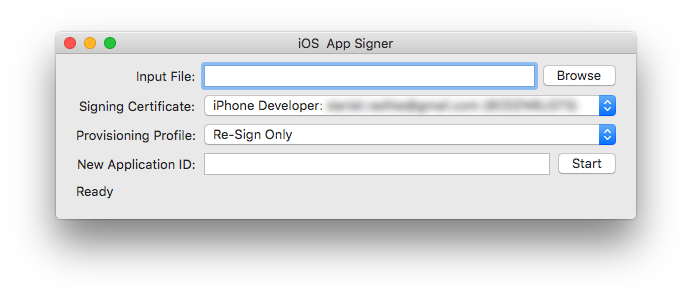
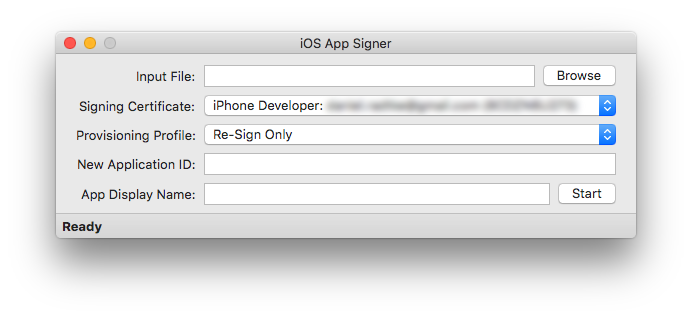
1.0b3

Changed region(s): [[0.0607, 0.0903, 0.9104, 0.7525]]

diff --git a/AppSigner/ViewController.swift b/AppSigner/ViewController.swift
@@ -19,6 +19,7 @@ class ViewController: NSViewController, NSURLSessionDataDelegate, NSURLSessionDe
     @IBOutlet var StartButton: NSButton!
     @IBOutlet var NewApplicationIDTextField: NSTextField!
     @IBOutlet var downloadProgress: NSProgressIndicator!
+    @IBOutlet var appDisplayName: NSTextFieldCell!
     
     //MARK: Variables
     var provisioningProfiles:[ProvisioningProfile] = []
@@ -233,6 +234,7 @@ class ViewController: NSViewController, NSURLSessionDataDelegate, NSURLSessionDe
         var provisioningFile = self.profileFilename
         let signingCertificate = self.CodesigningCertsPopup.selectedItem!.title
         let newApplicationID = self.NewApplicationIDTextField.stringValue.stringByTrimmingCharactersInSet(NSCharacterSet.whitespaceAndNewlineCharacterSet())
+        let newDisplayName = self.appDisplayName.stringValue.stringByTrimmingCharactersInSet(NSCharacterSet.whitespaceAndNewlineCharacterSet())
         
         //MARK: Create working temp folder
         let tempTask = NSTask().execute(mktempPath, workingDirectory: nil, arguments: ["-d"])
@@ -363,7 +365,7 @@ class ViewController: NSViewController, NSURLSessionDataDelegate, NSURLSessionDe
             break
             
         case "xcarchive":
-            //MARK: Copy app bundle
+            //MARK: Copy app bundle from xcarchive
             if !inputIsDirectory {
                 setStatus("Unsupported input file")
                 cleanup(tempFolder); return
@@ -426,7 +428,7 @@ class ViewController: NSViewController, NSURLSessionDataDelegate, NSURLSessionDe
                 //MARK: Delete CFBundleResourceSpecification from Info.plist
                 NSLog(NSTask().execute(defaultsPath, workingDirectory: nil, arguments: ["delete",appBundleInfoPlist,"CFBundleResourceSpecification"]).output)
                 
-                //MARK: Generate entitlements.plist
+                //MARK: Copy Provisioning Profile
                 if provisioningFile != nil {
                     if fileManager.fileExistsAtPath(appBundleProvisioningFilePath) {
                         if (try? fileManager.removeItemAtPath(appBundleProvisioningFilePath)) == nil {
@@ -439,6 +441,8 @@ class ViewController: NSViewController, NSURLSessionDataDelegate, NSURLSessionDe
                         cleanup(tempFolder); return
                     }
                 }
+                
+                //MARK: Generate entitlements.plist
                 if provisioningFile != nil || useAppBundleProfile {
                     setStatus("Parsing entitlements")
                     if let profile = ProvisioningProfile(filename: useAppBundleProfile ? appBundleProvisioningFilePath : provisioningFile!){
@@ -461,12 +465,24 @@ class ViewController: NSViewController, NSURLSessionDataDelegate, NSURLSessionDe
                     
                 }
                 
+                //MARK: Change Application ID
                 if newApplicationID != "" {
                     setStatus("Changing App ID to \(newApplicationID)")
                     let IDChangeTask = NSTask().execute(defaultsPath, workingDirectory: nil, arguments: ["write",appBundleInfoPlist,"CFBundleIdentifier", newApplicationID])
                     if IDChangeTask.status != 0 {
                         setStatus("Error changing App ID")
                         NSLog(IDChangeTask.output)
+                        cleanup(tempFolder); return
+                    }
+                }
+                
+                //MARK: Change Display Name
+                if newDisplayName != "" {
+                    setStatus("Changing Display Name to \(newDisplayName))")
+                    let displayNameChangeTask = NSTask().execute(defaultsPath, workingDirectory: nil, arguments: ["write",appBundleInfoPlist,"CFBundleDisplayName", newDisplayName])
+                    if displayNameChangeTask.status != 0 {
+                        setStatus("Error changing display name")
+                        NSLog(displayNameChangeTask.output)
                         cleanup(tempFolder); return
                     }
                 }
